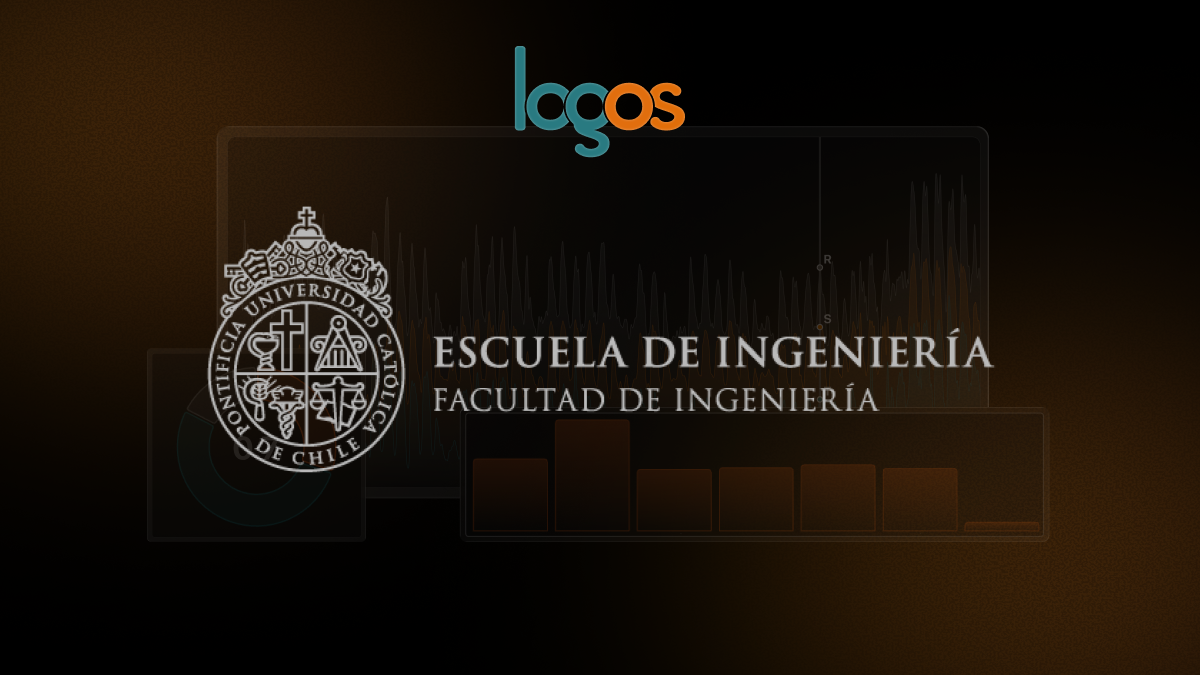
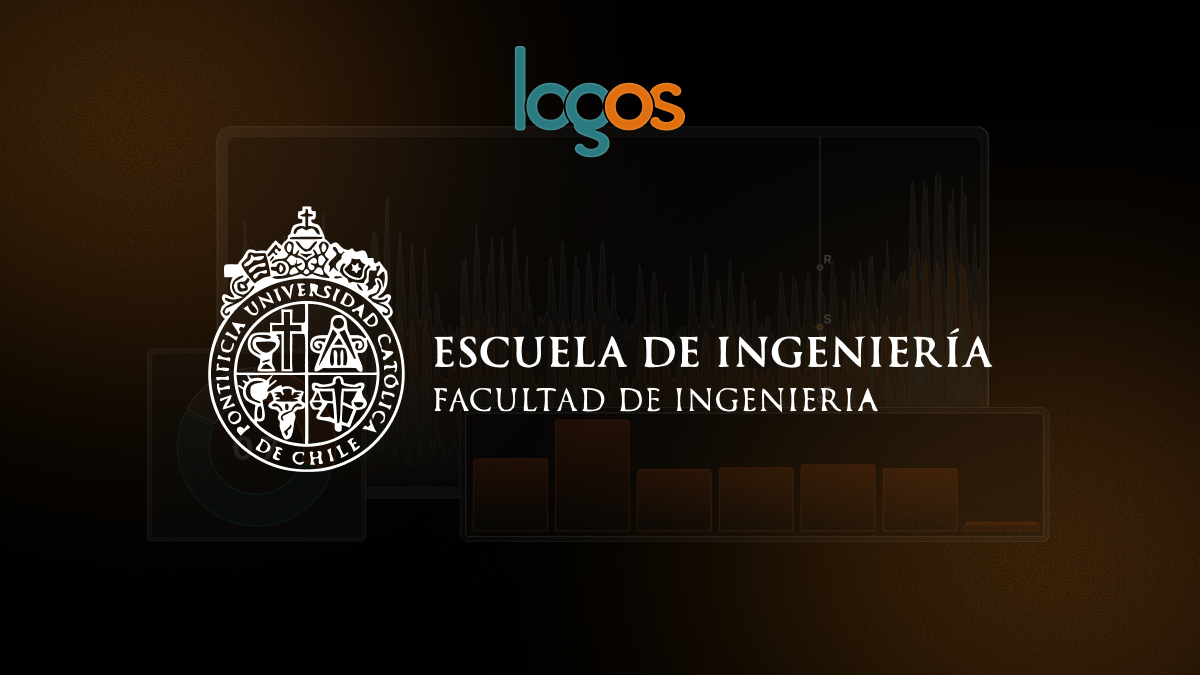
new client posts

Changed region(s): [[0.1542, 0.3111, 0.8325, 0.7156]]

diff --git a/src/sections/landing/DemoVideo.tsx b/src/sections/landing/DemoVideo.tsx
@@ -32,7 +32,7 @@ export function DemoVideo() {
     const locale = useLocale();
     const content = getSiteContent(locale);
     const theme = useTheme();
-    const videoRef = useRef<HTMLVideoElement | null>(null);
+    const videoContainerRef = useRef<HTMLDivElement | null>(null);
     const playerRef = useRef<Player | null>(null);
     const [isPlaying, setIsPlaying] = useState(false);
     const [isMuted, setIsMuted] = useState(false);
@@ -40,11 +40,20 @@ export function DemoVideo() {
     const [duration, setDuration] = useState(0);
     const src = useMemo(() => `https://stream.mux.com/${muxPlaybackId}.m3u8`, []);
     useEffect(() => {
-        if (!videoRef.current || playerRef.current) {
+        if (!videoContainerRef.current) {
             return;
         }
 
-        const player = videojs(videoRef.current, {
+        if (playerRef.current) {
+            return;
+        }
+
+        const videoElement = document.createElement("video");
+        videoElement.classList.add("video-js");
+        videoElement.setAttribute("playsinline", "true");
+        videoContainerRef.current.appendChild(videoElement);
+
+        const player = videojs(videoElement, {
             autoplay: false,
             controls: false,
             preload: "auto",
@@ -270,7 +279,7 @@ export function DemoVideo() {
                         }}
                     >
                         <div data-vjs-player>
-                            <video ref={videoRef} className="video-js" playsInline />
+                            <div ref={videoContainerRef} />
                         </div>
 
                         {!isPlaying && (
@@ -279,7 +288,7 @@ export function DemoVideo() {
                                     position: "absolute",
                                     inset: 0,
                                     zIndex: 2,
-                                    display: "flex",
+                                    display: { xs: "none", md: "flex" },
                                     alignItems: "center",
                                     justifyContent: "center",
                                     pointerEvents: "none",

diff --git a/src/i18n/siteContent.ts b/src/i18n/siteContent.ts
@@ -107,6 +107,7 @@ const siteContent = {
                 },
                 { label: "Planes y Precios", href: "/pricing" },
                 { label: "Manifiesto", href: "/about" },
+                { label: "Noticias", href: "/news" },
             ],
         },
         footer: {
@@ -861,6 +862,7 @@ const siteContent = {
                 },
                 { label: "Plans & Pricing", href: "/pricing" },
                 { label: "Manifesto", href: "/about" },
+                { label: "News", href: "/news" },
             ],
         },
         footer: {
@@ -1595,6 +1597,7 @@ const siteContent = {
                 },
                 { label: "Planos e Preços", href: "/pricing" },
                 { label: "Manifesto", href: "/about" },
+                { label: "Notícias", href: "/news" },
             ],
         },
         footer: {

diff --git a/src/components/LanguageSwitcher.tsx b/src/components/LanguageSwitcher.tsx
@@ -81,12 +81,13 @@ export function LanguageSwitcher() {
                         sx={{
                             lineHeight: 1,
                             color: "text.secondary",
+                            whiteSpace: "nowrap",
                             display: { xs: "none", md: "block" },
                         }}
                     >
                         {content.languageSwitcher.currentLanguageLabel}
                     </Typography>
-                    <Typography variant="body2" sx={{ fontWeight: 700, lineHeight: 1.2 }}>
+                    <Typography variant="body2" sx={{ fontWeight: 700, lineHeight: 1.2, whiteSpace: "nowrap" }}>
                         <Box component="span" sx={{ display: { xs: "inline", md: "none" } }}>
                             {currentLocale.shortLabel}
                         </Box>

diff --git a/src/sections/landing/ClientsMarquee.tsx b/src/sections/landing/ClientsMarquee.tsx
@@ -8,13 +8,13 @@ import { getSiteContent } from "@/i18n/siteContent";
 
 const CLIENTS = [
     { name: "Seeed Studio", src: "/seeed.webp" },
-    { name: "UC Facultad de Ingeniería", src: "/uc-facultad-ingenieria.webp", height: 52 },
+    { name: "UC Facultad de Ingeniería", src: "/uc-facultad-ingenieria.svg", height: 52 },
     { name: "Client 3", src: "/Mesa_de_trabajo_3.svg" },
     { name: "Client 4", src: "/Mesa_de_trabajo_4.svg" },
     { name: "Client 5", src: "/Mesa_de_trabajo_5.svg" },
     { name: "Client 6", src: "/Mesa_de_trabajo_6.svg" },
     { name: "Rodar", src: "/rodar_registrado.svg" },
-    { name: "FS Curtis", src: "/fscurtis.png", height: 100 },
+    { name: "FS Curtis", src: "/fscurtis.svg", height: 100 },
 ];
 
 const scrollRight = keyframes`

diff --git a/src/sections/layout/Header.tsx b/src/sections/layout/Header.tsx
@@ -312,7 +312,6 @@ export function Header() {
                                     gap: 2
                                 })}
                             >
-                                <LanguageSwitcher />
                                 <Button
                                     component={Link}
                                     href="/#newsletter"
@@ -335,6 +334,7 @@ export function Header() {
                                 >
                                     {content.header.contactCta}
                                 </Button>
+                                <LanguageSwitcher />
                             </Box>
                         </Box>
 

diff --git a/src/sections/news/NewsSlider.tsx b/src/sections/news/NewsSlider.tsx
@@ -192,7 +192,11 @@ export function NewsSlider({
                       maxWidth: 700,
                       lineHeight: 1.5,
                       mb: 3,
-                      display: { xs: 'none', md: 'block' },
+                      display: '-webkit-box',
+                      WebkitLineClamp: { xs: 2, md: 3 },
+                      WebkitBoxOrient: 'vertical',
+                      overflow: 'hidden',
+                      fontSize: { xs: '0.875rem', md: '1rem' }
                     }}
                   >
                     {posts[currentIndex].description}

diff --git a/src/app/[locale]/news/[slug]/page.tsx b/src/app/[locale]/news/[slug]/page.tsx
@@ -33,12 +33,17 @@ export async function generateMetadata({
 			title: `${post.title} | LogOS`,
 			description: post.description,
 			images: [
-				{
-					url: post.cover || "/opengraph-image.jpg",
-					width: 1200,
-					height: 630,
-					alt: post.title,
-				},
+				post.cover
+					? {
+							url: post.cover,
+							alt: post.title,
+					  }
+					: {
+							url: "/opengraph-image.jpg",
+							width: 1200,
+							height: 630,
+							alt: post.title,
+					  },
 			],
 			type: "article",
 			publishedTime: post.date,

diff --git a/src/middleware.ts b/src/middleware.ts
@@ -97,5 +97,5 @@ export default function middleware(request: NextRequest) {
 
 export const config = {
   // Match only internationalized pathnames
-  matcher: ['/', '/(es|en|pt)/:path*']
+  matcher: ['/', '/(es|en|pt)/:path*', '/((?!api|_next|_vercel|.*\\..*).*)']
 };
